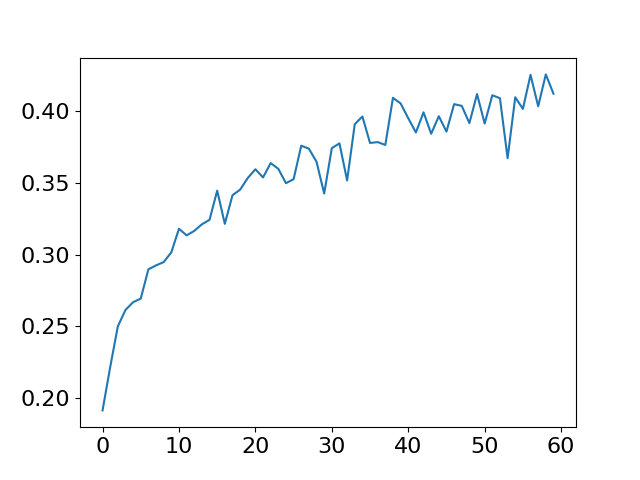
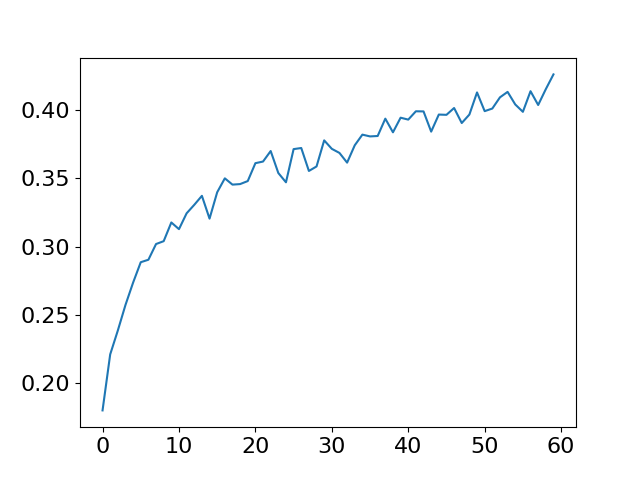
before change aggregation weight

diff --git a/pic/draw.py b/pic/draw.py
@@ -135,6 +135,7 @@ def nsf_gs_comp():
     gs15 = "0.1934 0.2252 0.2474 0.2661 0.2744 0.2846 0.2886 0.31 0.3037 0.3226 0.3244 0.3303 0.3355 0.3386 0.3517 0.3542 0.3511 0.3548 0.3638 0.3607 0.3561 0.3671 0.3526 0.3722 0.3811 0.3832 0.3859 0.3895 0.3888 0.3772 0.3977 0.3966 0.394 0.3984 0.3854 0.4036 0.4047 0.4166 0.401 0.4035 0.4137 0.4061 0.424 0.4136 0.4125 0.4258 0.4351 0.4195 0.4133 0.4302 0.42 0.4296 0.4308 0.4381 0.4311 0.4312 0.4343 0.4188 0.4321 0.4302"
     gs20 = "0.1679 0.2071 0.2222 0.2544 0.2674 0.2727 0.2882 0.2981 0.2958 0.3008 0.297 0.3099 0.308 0.3145 0.3193 0.3015 0.3136 0.3289 0.3361 0.3392 0.3293 0.3349 0.3428 0.3526 0.3563 0.3625 0.3612 0.3615 0.3662 0.3741 0.3702 0.3725 0.3727 0.3753 0.3818 0.3779 0.3895 0.3909 0.3823 0.3675 0.3834 0.3987 0.3891 0.4008 0.3785 0.406 0.393 0.3911 0.3953 0.4164 0.3979 0.4177 0.389 0.4055 0.4112 0.4058 0.4128 0.4064 0.4266 0.4103"
 
+
     gs5_accu = np.array([float(x) for x in gs5.split(' ')])
     gs10_accu = np.array([float(x) for x in gs10.split(' ')])
     gs15_accu = np.array([float(x) for x in gs15.split(' ')])
@@ -167,16 +168,19 @@ def nsf_gs_comp():
 def nsf_p_comp():
     p_rcv = "0.1825 0.2216 0.2513 0.263 0.2784 0.2969 0.2997 0.3198 0.3238 0.3343 0.3357 0.3445 0.3466 0.358 0.3586 0.3595 0.3664 0.3724 0.378 0.3815 0.3889 0.3905 0.395 0.4014 0.4002 0.4032 0.4099 0.4094 0.4138 0.4188 0.4181 0.422 0.4255 0.4252 0.4259 0.4288 0.4293 0.4399 0.4354 0.4281 0.4368 0.439 0.43 0.4355 0.4372 0.4368 0.4442 0.4397 0.445 0.4466 0.4467 0.4481 0.4453 0.4447 0.4534 0.4514 0.4479 0.4549 0.4517 0.458"
     p_ercv = "0.1888 0.2212 0.2509 0.2737 0.2916 0.3031 0.309 0.3251 0.3361 0.3472 0.3556 0.3549 0.3662 0.3652 0.3708 0.3792 0.377 0.3834 0.3846 0.3893 0.3899 0.3923 0.395 0.3951 0.3997 0.3999 0.4005 0.4091 0.4051 0.4114 0.4117 0.4139 0.414 0.4168 0.4151 0.421 0.4222 0.4207 0.423 0.4234 0.425 0.422 0.4231 0.4287 0.4283 0.4244 0.4273 0.4315 0.4344 0.4331 0.4321 0.4363 0.4357 0.4409 0.4356 0.4357 0.4393 0.4399 0.4393 0.439"
+    p_esrcv = "0.2014 0.25 0.2652 0.283 0.3031 0.3212 0.3246 0.3386 0.3421 0.3652 0.3655 0.3762 0.3791 0.3952 0.388 0.4055 0.411 0.412 0.4162 0.4232 0.4229 0.4381 0.4359 0.4453 0.4434 0.4563 0.4582 0.4538 0.4619 0.4641 0.4741 0.4762 0.4712 0.4757 0.4849 0.4853 0.4846 0.4784 0.4881 0.4932 0.4939 0.5086 0.5072 0.5007 0.5101 0.511 0.5094 0.5214 0.5291 0.5166 0.5227 0.5291 0.5325 0.5335 0.5251 0.5413 0.5318 0.535 0.5408 0.547"
     p_r = "0.1687 0.2048 0.2244 0.2327 0.2477 0.2623 0.2737 0.2856 0.297 0.2994 0.3137 0.3173 0.3287 0.3261 0.3389 0.3358 0.3409 0.3525 0.3533 0.3549 0.3599 0.36 0.3671 0.3657 0.3676 0.3677 0.3714 0.3855 0.3859 0.3846 0.3856 0.3891 0.392 0.395 0.3894 0.3899 0.3986 0.4026 0.4007 0.4049 0.4066 0.4037 0.4089 0.408 0.4088 0.4141 0.4107 0.4146 0.4185 0.4235 0.4199 0.4241 0.4208 0.4205 0.4223 0.422 0.4297 0.4267 0.425 0.4282"
     p_rcv_accu = np.array([float(x) for x in p_rcv.split(' ')])
     p_ercv_accu = np.array([float(x) for x in p_ercv.split(' ')])
+    p_esrcv_accu = np.array([float(x) for x in p_esrcv.split(' ')])
     p_r_accu = np.array([float(x) for x in p_r.split(' ')])
 
     x = np.arange(0, 60, 1)
-    plt.ylim(0, 0.5)
+    plt.ylim(0, 0.6)
     plt.xlim(0, 50)
-    plt.plot(x, p_rcv_accu, label='P-RCV', color='green')
-    plt.plot(x, p_ercv_accu, label='P-ERCV', color='blue')
+    plt.plot(x, p_rcv_accu, label='P-RCV', color='blue')
+    plt.plot(x, p_ercv_accu, label='P-ERCV', color='orange')
+    plt.plot(x, p_esrcv_accu, label='P-ESRCV', color='green')
     plt.plot(x, p_r_accu, label='P-RAND', color='red')
 
     plt.rc('font', size=16)
@@ -196,16 +200,20 @@ def nsf_p_comp():
     plt.clf()
 
 def nsf_gs_cost_comp():
-    gs5 = "12785.6090697 25315.661840700002 37951.20330839999 50726.21937089999 63359.55396209999 76215.78307979999 88959.90287129999 101752.13257049999 114546.5691462 127084.56667259999 139748.3561595 152371.9804941 165209.6718492 178039.85982420002 190504.1476755 203274.30860970003 216278.39845290003 228964.69808010003 241701.7558668 254306.4010635 267178.519692 280030.776432 292721.93118749995 305529.16764690005 318175.3021218001 331018.2899805 343813.60930680006 356755.906608 369485.01963929995 382121.4438575999 394868.65327619994 407667.0622295999 420401.03038919996 433177.81195289997 445969.60027679993 458864.22904559993 471593.3420768999 484175.0357579999 497042.2992581999 509971.79667569994 522749.90236529993 535526.6839289999 548112.3499878 561026.3992697999 573686.2163790001 586536.7076178001 599193.4350999001 612053.1952200001 624741.2603484001 637496.4145224 650337.1955046001 663104.2668117001 675639.6160863001 688457.8869282001 701240.4063708001 713925.3818720999 726582.5507294999 739427.7454646999 752311.7812262999 765122.5486881"
+    gs10 = "0.2068 0.2409 0.2521 0.2644 0.2837 0.2881 0.2878 0.3128 0.3178 0.304 0.3192 0.3202 0.3373 0.3315 0.3514 0.3529 0.3439 0.3597 0.3667 0.365 0.367 0.3767 0.3792 0.3796 0.3923 0.3764 0.3882 0.3952 0.3919 0.3798 0.393 0.3826 0.3975 0.4051 0.3958 0.4005 0.3974 0.3957 0.4105 0.4054 0.4165 0.4233 0.4074 0.4068 0.4128 0.4176 0.4081 0.422 0.4123 0.4326 0.4122 0.4219 0.423 0.4128 0.4066 0.4303 0.4277 0.4298 0.4115 0.426"
+    gs20 = "0.1679 0.2071 0.2222 0.2544 0.2674 0.2727 0.2882 0.2981 0.2958 0.3008 0.297 0.3099 0.308 0.3145 0.3193 0.3015 0.3136 0.3289 0.3361 0.3392 0.3293 0.3349 0.3428 0.3526 0.3563 0.3625 0.3612 0.3615 0.3662 0.3741 0.3702 0.3725 0.3727 0.3753 0.3818 0.3779 0.3895 0.3909 0.3823 0.3675 0.3834 0.3987 0.3891 0.4008 0.3785 0.406 0.393 0.3911 0.3953 0.4164 0.3979 0.4177 0.389 0.4055 0.4112 0.4058 0.4128 0.4064 0.4266 0.4103"
+    gs50 = ""
+    gs10_accu = np.array([float(x) for x in gs10.split(' ')])
+    gs20_accu = np.array([float(x) for x in gs20.split(' ')])
+    gs50_accu = np.array([float(x) for x in gs50.split(' ')])
+    
     gs10 = "12599.7549444 25229.082033899995 37794.851080199995 50309.42059169999 62925.50642219999 75369.45588569998 88258.7530269 100809.515313 113655.11629949999 126377.57357729998 138954.81838139996 151446.87775259998 164112.83899199998 176605.33973849998 189487.57487489996 202092.62632289997 214805.3733441 227288.60520929997 239994.2902257 252827.0913285 265487.75606429996 278122.8210327 290824.5336714 303361.6133232 316319.76501120004 329040.45678780007 341657.4253689001 354127.85735040007 366643.3096125001 379371.5047692001 392325.6840795001 404922.7907721001 417571.53837480006 429942.66091380006 442493.4231999 455312.9830437 467967.02715 480830.7245238 493622.91909899993 506070.3995648999 518729.7401747999 531504.2797379999 544460.6659247999 557512.3891763998 569969.1385235998 582342.0265637999 595296.6472493998 608083.1039456999 620827.1886131999 633150.6426197997 645736.2735545996 658381.0487795996 671115.8645657997 683682.5163626998 696380.2566236999 709169.3615718 721784.5646517 734401.5332328 746831.3586866999 759322.0939319998"
-    gs15 = "12462.165132250002 24802.952057000006 36957.91998045001 49487.17415830001 61791.326933150005 74041.6319214 86626.49938705 99318.62105059999 111666.91135544999 124216.46879709998 136557.69709714997 148899.36677249995 161590.16431014996 174222.70030819997 186496.83956264996 199274.14665909996 211535.48602984997 224193.18042 236556.91886035 249104.7108008 261595.12395225 273733.3196143 286135.89908104995 298754.3110695 310998.87817885 323710.42035559996 336162.87523124996 348177.044434 360709.82961425005 373064.29917330004 385590.90509935 398021.29121000005 410637.93769725005 422801.29175140004 435160.17506345 447555.2511501 460116.72572485 472576.6839806 485250.70925684995 497543.3862739 509990.54464594997 522632.79090059997 534865.88225215 547147.5248867 559572.1731184499 572244.8742687999 584569.3303074499 596692.0778339999 609101.7193055497 621715.2761656998 634148.7519034498 646741.5641244998 659587.2843924499 672106.3869383999 684405.68458495 696855.4912087999 709400.1935221499 721854.8552743 734354.53730705 746920.4256348"
     gs20 = "12867.340434300004 25649.495435700006 38649.24846 51448.61709810001 64233.861726600015 77024.84423400002 89836.13000520002 102761.73197910002 115818.86379240002 128709.15574230002 141797.1838266 154634.0693652 167527.00956689997 180385.52249519996 193240.06304579997 205815.21303149997 218804.37304859995 231523.41138209996 244637.0392338 257252.7957471 269872.0832628 282641.87975580007 295475.23429200007 308253.85829100007 320927.43496860005 334000.8976680001 346616.21280600014 359398.80918270006 372142.12315770006 384907.9472730001 397751.4534411001 410494.3260408001 423305.6118120001 436282.8546960001 449042.9409324001 461983.5496665001 475048.18485990004 487768.5473193 500563.9435797 513078.18377400003 526114.1295729 538983.2355084001 551621.5021620002 564497.6701023001 577003.0827906001 589980.7670499 602812.3560849002 615623.2004808001 628555.8644595001 641638.1546649 654594.2115345 667436.834952 680022.5779448999 692826.8017112999 705367.5244236 718228.2442284 730821.0492261001 743548.0323150002 756498.3513057001 769321.5542100001"
-
-    gs5_cost = np.array([float(x) for x in gs5.split(' ')])
+    gs50 = ""
     gs10_cost = np.array([float(x) for x in gs10.split(' ')])
-    gs15_cost = np.array([float(x) for x in gs15.split(' ')])
     gs20_cost = np.array([float(x) for x in gs20.split(' ')])
-
+    gs50_cost = np.array([float(x) for x in gs50.split(' ')])
+    
     x = np.arange(0, 60, 1)
     plt.ylim(0, 800000)
     plt.xlim(0, 50)
@@ -238,4 +246,4 @@ if __name__ == '__main__':
     nsf_selection_comp()
     nsf_p_comp()
     nsf_gs_comp()
-    nsf_gs_cost_comp()
+    # nsf_gs_cost_comp()

diff --git a/utils/fed.py b/utils/fed.py
@@ -358,7 +358,7 @@ class GFL:
 
                 group_size = len(group)
                 # [ 0.00509987 0.00114916  -0.03624395]
-                group_overhead = (0.00509987 * group_size**2 + 0.00114916 * group_size - 0.03624395)
+                group_overhead = (0.00509987 * (group_size**2) + 0.00114916 * group_size - 0.03624395)
 
                 if len(group) < 5:
                     group_overhead = 0
@@ -404,8 +404,10 @@ class GFL:
         if self.config.selection_mode == Config.SelectionMode.RANDOM:
             probs = np.full((len(self.groups), ), 1.0/len(self.groups), dtype=np.float)
         elif self.config.selection_mode == Config.SelectionMode.PROB_CV:
-            probs = np.exp(np.square(1.0 / self.groups_cvs_arr))
-            # probs = np.exp(1.0 / self.groups_cvs_arr)
+            probs0 = np.exp(np.square(1.0 / self.groups_cvs_arr))
+            probs = np.exp(1.0 / self.groups_cvs_arr)
+            print("P-ESRCV ", probs0)
+            print("P-ERCV ", probs)
             # np.multiply(probs, self.groups_data_nums_arr, out=probs)
             sum_rcv = np.sum(probs)
             probs = probs / sum_rcv
@@ -437,7 +439,6 @@ class GFL:
             pass
 
         # add more group if not enough
-
 
         return self.selected_groups
 
@@ -549,6 +550,8 @@ class GFL:
 
             cur_cost += self.calc_selected_groups_cost(selected_groups)
 
+            print("costs", self.groups_costs_arr)
+            print("selected", self.selected_groups)
 
             # test and record
             if i % self.config.log_interval == self.config.log_interval - 1:

diff --git a/main.py b/main.py
@@ -91,8 +91,8 @@ if __name__ == "__main__":
     #     torch.cuda.manual_seed(seed)
 
     config = rg_rs
-    config.min_group_size = 30
-    config.test_mark = "gs30"
+    config.min_group_size = 50
+    config.test_mark = "gs50"
     config.comment = ""
     gfl = GFL(config)
     gfl.run()
